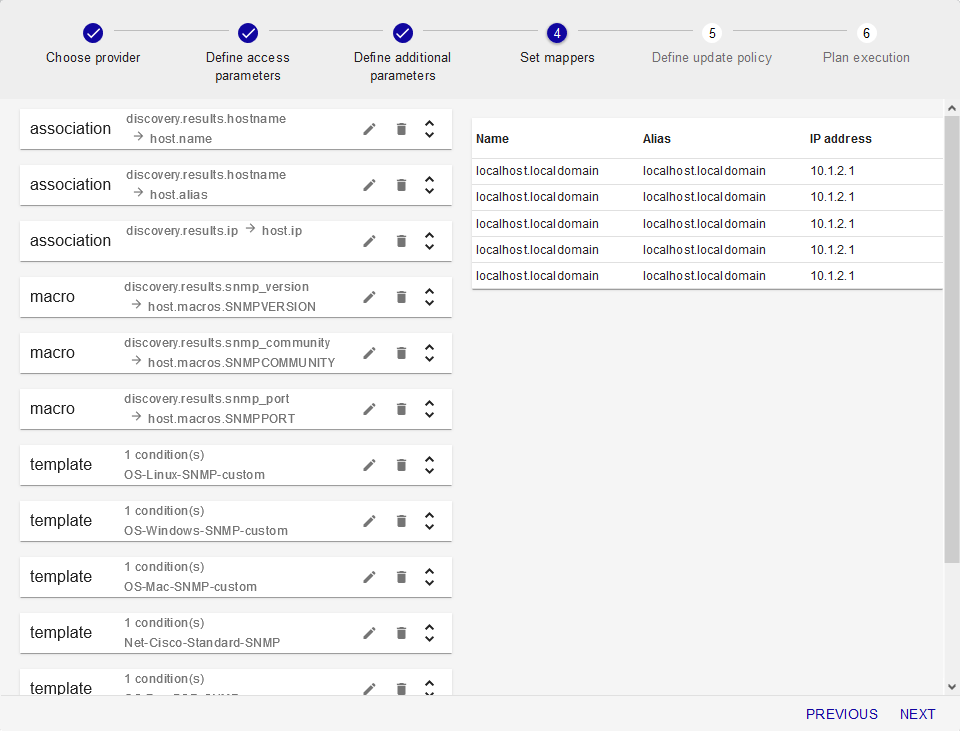
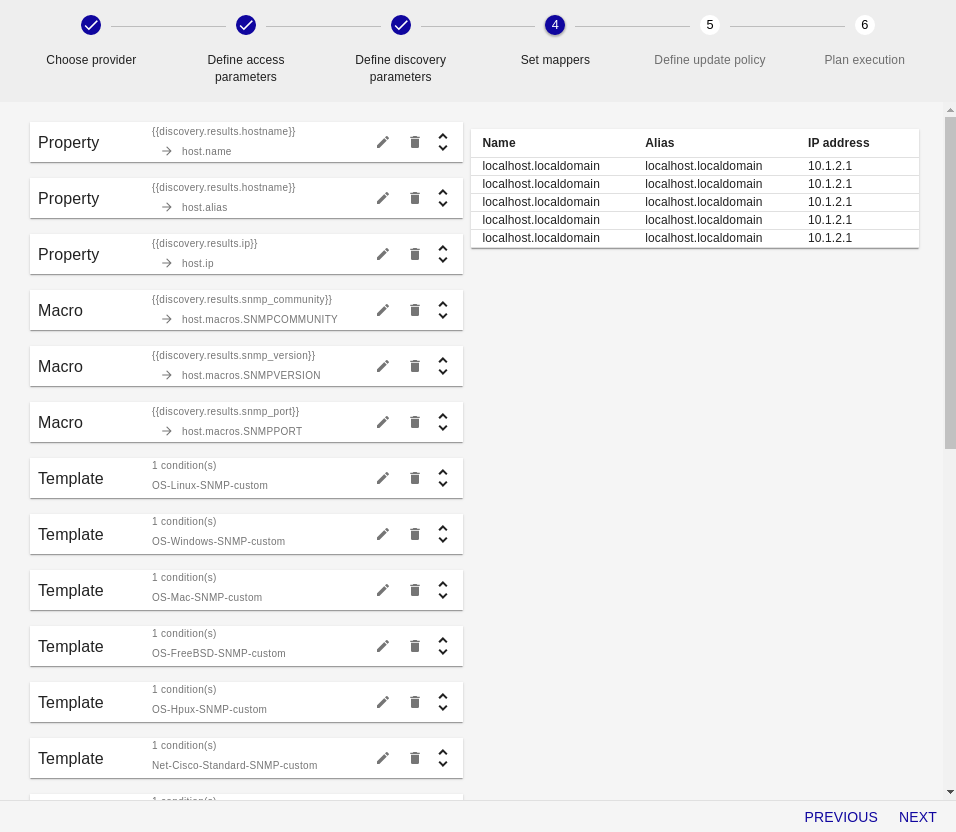
enh(discovery): documentation of new features in host discovery

diff --git a/fr/monitoring/discovery/hosts-discovery.md b/fr/monitoring/discovery/hosts-discovery.md
@@ -162,24 +162,24 @@ Plusieurs actions peuvent être réalisées sur les tâches :
   - Ou même supprimées <img src="../../assets/monitoring/discovery/host-discovery-delete.png" width="24" />
   - Si la tâches est planifiée, elle peut être mise en pause <img src="../../assets/monitoring/discovery/host-discovery-pause.png" width="24" />
   - Et reprise <img src="../../assets/monitoring/discovery/host-discovery-resume.png" width="24" />
+  - Et le plus important, accéder aux résultats de la tâche de découverte <img src="../../assets/monitoring/discovery/host-discovery-goto-results.png" width="24" />
 
 ## Analyser le résultat d'une tâche
 
-Depuis le menu `Configuration > Hôtes > Découverte`, cliquez sur une tâche
-terminée to visualiser le resulat.
+  - Depuis le menu `Configuration > Hôtes > Découverte`, cliquez sur la flèche <img src="../../assets/monitoring/discovery/host-discovery-goto-results.png" width="24" /> 
+d'une tâche terminée pour en visualiser le resulat.
 
 ![image](../../assets/monitoring/discovery/host-discovery-hosts-listing.png)
 
-Les modificateurs liés à cette tâche peuvent être édités et appliqués
+  - Les modificateurs liés à cette tâche peuvent être édités et appliqués
 directement au résultat en cliquant sur le bouton d'édition <img src="../../assets/monitoring/discovery/host-discovery-edit.png" width="24" />
 
-Sélectionnez les hôtes que vous voulez ajouter à la configuration et cliquez
+  - Sélectionnez les hôtes que vous voulez ajouter à la configuration et cliquez
 sur le bouton d'enregistrement <img src="../../assets/monitoring/discovery/host-discovery-hosts-save.png" width="24" />
 
-Une tâche sera lancée pour enregistrer les hôtes et créer les services liés aux
-modèles d'hote.
+Les hôtes sont alors créés ainsi que les services liés à leurs modèles d'hote.
 
-Allez au menu `Configuration > Hôtes` pour voir les hôtes nouvellement créés.
+  - Allez au menu `Configuration > Hôtes` pour voir les hôtes nouvellement créés.
 
 ![image](../../assets/monitoring/discovery/host-discovery-configuration-hosts.png)
 
@@ -189,30 +189,31 @@ survenue pendant la tâche d'enregistrement.
 
 ## Editer une tâche de découverte
 
-Depuis le menu `Configuration > Hôtes > Découverte`, cliquez sur l'icone
-d'édition.
+  - Depuis le menu `Configuration > Hôtes > Découverte`, cliquez dans la ligne 
+de la tâche.
 
-![image](../../assets/monitoring/discovery/host-discovery-edit-job.png)
-
-Depuis le panneau sur la droite, tous les paramètres d'une tâche peuvent être
+  - Depuis le panneau sur la droite, tous les paramètres d'une tâche peuvent être
 modifiés.
 
 L'édition des *modificateurs* aura un effet direct sur les résultats de la
 tâche.
 
-Cliquez sur l'icone de sauvegarde  <img src="../../assets/monitoring/discovery/host-discovery-save.png" width="50" />
+  - Cliquez sur l'icone de sauvegarde  <img src="../../assets/monitoring/discovery/host-discovery-save.png" width="50" />
 
 ## Comment utiliser les *modificateurs*
 
 Un *modificateur* est un objet vous permettant de lier la valeur d'un
 attribut d'un item découvert à la propriété d'un futur hôte.
 
-Il y a six types de *modificateur* :
+Il y a neuf types de *modificateur* :
 
-  - Association: associe la valeur d'un attribut aux propriétés communes
+  - Property: associe la valeur d'un attribut aux propriétés communes
     d'un hôte comme son nom, son alias ou son adresse IP,
   - Macro: associe la valeur d'un attribut à une macro *custom* d'un hôte,
   - Template: ajoute un modèle d'hôte,
+  - Host group: rattachement à un groupe d'hôtes,
+  - Host category: classification des hôtes par catégorie,
+  - Host severity: priorisation des hôtes par sévérité,
   - Monitoring: choisit depuis quel serveur de supervision l'hôte sera
     supervisé,
   - Exclusion: exclure un sous-ensemble des hôtes sur la base de leurs attributs,
@@ -230,7 +231,13 @@ peuvent être : *equal*, *not equal*, *contain* et *not contain*.
 La liste des attributs dépend du fournisseur et sont listés comme *Source* pour
 à la fois les *modificateurs* et les *conditions*.
 
-### AJouter un *modificateur*
+> Depuis la version 21.04, dans les modificateurs *Property*, *Macro*, *Host
+group* et *Host category* il est possible de concaténer un ou plusieurs
+de ces attributs avec une ou plusieurs chaines de caractères personnalisées.
+
+![image](../../assets/monitoring/discovery/host-discovery-mappers-concatenation.gif)
+
+### Ajouter un *modificateur*
 
 Depuis l'étape quatre de l'assistant de création d'une tâche, ou depuis le
 panneau d'édition dans la section *Modificateurs*, cliquez sur **+AJOUTER UN
@@ -243,16 +250,17 @@ Cliquez sur **ENREGISTRER** pour ajouter un *modificateur*.
 
 ### Editer un *modificateur*
 
-Depuis l'étape quatre de l'assistant de création d'une tâche, ou depuis le
-panneau d'édition dans la section *Modificateurs*, cliquez sur l'icone d'édition <img src="../../assets/monitoring/discovery/host-discovery-edit.png" width="25" />
+  - Depuis l'étape quatre de l'assistant de création d'une tâche, ou depuis
+le panneau d'édition dans la section *Modificateurs*, cliquez sur l'icone 
+d'édition <img src="../../assets/monitoring/discovery/host-discovery-edit.png" width="25" />
 
-Modifiez n'importe quel champs ou le type de *modificateur* lui-même.
+  - Modifiez n'importe quel champs ou le type de *modificateur* lui-même.
 
-Cliquez sur **ENREGISTRER** pour enregistrer le *modificateur*.
+  - Cliquez sur **ENREGISTRER** pour enregistrer le *modificateur*.
 
 ### Supprimer un *modificateur*
 
-Depuis l'étape quatre de l'assistant de création d'une tâche, ou depuis le
+  - Depuis l'étape quatre de l'assistant de création d'une tâche, ou depuis le
 panneau d'édition dans la section *Modificateurs*, cliquez sur l'icone de
 suppression  <img src="../../assets/monitoring/discovery/host-discovery-delete.png" width="25" />
 
@@ -262,13 +270,13 @@ Cliquez sur **SUPPRIMER** pour supprimer le *modificateur*.
 
 ## Types de **modificateur**
 
-### Association
+### Property
 
-Le *modificateur* **Association** est utilisé pour définir les propriétés
+Le *modificateur* **Property** est utilisé pour définir les propriétés
 communes d'un hôte comme son nom, son alias ou son adresse IP. Ces trois
 propriétés sont obligatoires.
 
-![image](../../assets/monitoring/discovery/host-discovery-mappers-association.png)
+![image](../../assets/monitoring/discovery/host-discovery-mappers-property.png)
 
 La liste des *Source* permet de choisir entre les données d'identification
 (credentials), les paramètres additionnels (parameters) ou les attributs
@@ -302,6 +310,65 @@ n'est pas un remplacement.
 
 La liste *Modèles d'hôte** permet de choisir parmis tous les modèles d'hôte
 définis dans la configuration.
+
+### Host group
+
+Depuis la version 21.04, il est possible de rattacher des hôtes découverts
+automatiquement à des groupes d'hôtes. Cela peut se faire de deux manières.
+
+#### Sélection d'un groupe d'hôtes existant
+
+La première possibilité consiste à choisir un groupe d'hôtes déjà existant.
+Il suffit d'en sélectionner un dans le menu déroulant.
+
+![image](../../assets/monitoring/discovery/host-discovery-mappers-hostgroup-select.png)
+
+#### Création de groupe d'hôtes à la volée
+
+La seconde consiste à composer un nom de groupe à partir de chaines de 
+caractères et/ou d'informations issues de la découverte (une aide à la 
+saisie propose les informations disponibles).
+
+![image](../../assets/monitoring/discovery/host-discovery-mappers-hostgroup-create.png)
+
+Dans cet exemple, si l'on découvre des serveurs Linux, alors un groupe d'hôtes
+`os-linux` sera créé.
+
+Bien sûr, si un groupe d'hôtes existe déjà avec ce nom, il ne sera pas recréé,
+l'hôte sera simplement rattaché à ce groupe.
+
+### Host category
+
+Depuis la version 21.04, il est également possible de catégoriser les hôtes
+découverts automatiquement. Cela peut se faire de deux manières.
+
+#### Sélection d'une catégorie d'hôtes existante
+
+La première possibilité consiste à choisir une catégorie d'hôtes déjà existante.
+Il suffit d'en sélectionner une dans le menu déroulant.
+
+![image](../../assets/monitoring/discovery/host-discovery-mappers-hostcategory-select.png)
+
+#### Création de catégorie d'hôtes à la volée
+
+La seconde consiste à composer un nom de catégorie à partir de chaines de
+caractères et/ou d'informations issues de la découverte (une aide à la 
+saisie propose les informations disponibles).
+
+![image](../../assets/monitoring/discovery/host-discovery-mappers-hostcategory-create.png)
+
+Bien sûr, si une catégprie d'hôtes existe déjà avec ce nom, elle ne sera pas 
+recréé, l'hôte sera simplement rattaché à cette catégorie.
+
+### Host severity
+
+Toujours depuis la version 21.04, il est également possible de hiérarchiser
+les hôtes découverts automatiquement à l'aide de sévérités d'hôtes. Les 
+sévérités étant constituées d'un nom et d'un niveau (numérique), celles-ci
+ne peuvent pas être créées à la volée. On ne proposera que la sélection
+d'une sévérité existante dans le menu déroulant.
+
+![image](../../assets/monitoring/discovery/host-discovery-mappers-hostseverity-select.png)
 
 ### Monitoring
 

diff --git a/en/monitoring/discovery/hosts-discovery.md b/en/monitoring/discovery/hosts-discovery.md
@@ -157,24 +157,25 @@ Several actions can be done on jobs:
   - Or even deleted <img src="../../assets/monitoring/discovery/host-discovery-delete.png" width="24" />
   - If the job is scheduled, it can be paused <img src="../../assets/monitoring/discovery/host-discovery-pause.png" width="24" />
   - And resumed <img src="../../assets/monitoring/discovery/host-discovery-resume.png" width="24" />
+  - And the most important, access the result of the discovery task <img src="../../assets/monitoring/discovery/host-discovery-goto-results.png" width="24" />
 
 ## Analyse a discovery job result
 
-From the `Configuration > Hosts > Discovery` menu, click on a *Finished* job to
-visualize the result.
+  - From the `Configuration > Hosts > Discovery` menu, click on the arrow <img src="../../assets/monitoring/discovery/host-discovery-goto-results.png" width="24" />
+of a *Finished* job to visualize the result.
 
 ![image](../../assets/monitoring/discovery/host-discovery-hosts-listing.png)
 
-The mappers linked to this job can be edited and applied directly on the result
+  - The mappers linked to this job can be edited and applied directly on the result
 by clicking the edit action <img src="../../assets/monitoring/discovery/host-discovery-edit.png" width="24" />
 
-Select the hosts you want to add to the configuration and click on the save
+  - Select the hosts you want to add to the configuration and click on the save
 action <img src="../../assets/monitoring/discovery/host-discovery-hosts-save.png" width="24" />
 
-A task will be launched in background to save the hosts and create the services
-linked to host templates.
+The hosts will then be created as well as the services linked to their host 
+templates.
 
-Go to the `Configuration > Hosts` menu to see the newly created hosts.
+  - Go to the `Configuration > Hosts` menu to see the newly created hosts.
 
 ![image](../../assets/monitoring/discovery/host-discovery-configuration-hosts.png)
 
@@ -183,27 +184,30 @@ job listing and see if an error occured during the saving task.
 
 ## Edit a discovery job
 
-From the `Configuration > Hosts > Discovery` menu, click on the *Edit* action.
+  - From the `Configuration > Hosts > Discovery` menu, click on the *Edit* action.
 
 ![image](../../assets/monitoring/discovery/host-discovery-edit-job.png)
 
-On the panel on the right, every parameters of the job can be edited.
+  - On the panel on the right, every parameters of the job can be edited.
 
 Edition of the *mapper* will have a direct effect on the job result.
 
-Click on the *Save* icon <img src="../../assets/monitoring/discovery/host-discovery-save.png" width="50" />
+  - Click on the *Save* icon <img src="../../assets/monitoring/discovery/host-discovery-save.png" width="50" />
 
 ## How to use the *mappers*
 
 A *mapper* is an object letting you map an attribute's value of a discovered
 item to a property of a future host.
 
-There is six types of *mappers*:
+There are nine types of *mappers*:
 
-  - Association: map an attribute's value to a common host property like name,
+  - Property: map an attribute's value to a common host property like name,
     alias or IP,
   - Macro: map an attribute's value to a host custom macro,
   - Template: add a host template,
+  - Host group: link the host to a group,
+  - Host category: categorize the host,
+  - Host severity: prioritize the host according to a severity,
   - Monitoring: choose from which monitoring server will be monitored the host,
   - Exclusion: exclude a subset of hosts based on their attributes (see the
     [example](#dynamically-update-your-configuration) below),
@@ -221,6 +225,11 @@ contain.
 The list of attributes depends on the provider and are listed as *Source* for
 both *mappers* and conditions.
 
+> From version 21.04, mappers *Property*, *Macro*, *Host group* and *Host category*
+ support concatenating either discovery attributes or custom strings.
+
+![image](../../assets/monitoring/discovery/host-discovery-mappers-concatenation.gif)
+
 ### Add a *mapper*
 
 From the job wizard at step four, or from the edition panel in the *Mappers*
@@ -233,16 +242,16 @@ Click on **SAVE** to add the *mapper*.
 
 ### Edit a *mapper*
 
-From the job wizard at step four, or from the edition panel in the *Mappers*
+  - From the job wizard at step four, or from the edition panel in the *Mappers*
 section, click on the *Edit* icon <img src="../../assets/monitoring/discovery/host-discovery-edit.png" width="24" />
 
-Change any fields wanted or even the type of *mapper*.
+  - Change any fields wanted or even the type of *mapper*.
 
-Click on **SAVE** to save the *mapper*.
+  - Click on **SAVE** to save the *mapper*.
 
 ### Delete a *mapper*
 
-From the job wizard at step four, or from the edition panel in the *Mappers*
+  - From the job wizard at step four, or from the edition panel in the *Mappers*
 section, click on the *Delete* icon <img src="../../assets/monitoring/discovery/host-discovery-delete.png" width="24" />
 
 A popin window will ask you to confirm the action.
@@ -251,12 +260,12 @@ Click on **DELETE** to delete the *mapper*.
 
 ## *Mappers* types
 
-### Association
+### Property
 
-The **Association** *mapper* is used to set common properties of a host like
+The **Property** *mapper* is used to set common properties of a host like
 its name, alias or IP address. Those three properties are mandatory.
 
-![image](../../assets/monitoring/discovery/host-discovery-mappers-association.png)
+![image](../../assets/monitoring/discovery/host-discovery-mappers-property.png)
 
 The *Source* listing allows to choose between credentials, parameters or
 discovery result attributes.
@@ -288,6 +297,64 @@ replace method.
 
 The *Host template* listing allows to choose among all host templates defined
 in the configuration.
+
+### Host group
+
+From version 21.04, the discovered hosts can be linked to host groups. There
+are two ways of doing it.
+
+#### Select an existing host group
+
+The first way is to link the hosts to an existing host group. Just pick a host
+group in the scrolling menu.
+
+![image](../../assets/monitoring/discovery/host-discovery-mappers-hostgroup-select.png)
+
+#### Create host groups on-the-fly
+
+The second way is to create the host group on-the-fly. Both custom strings and
+discovery attributes can be used and concatenated to compose the host group's
+name.
+
+![image](../../assets/monitoring/discovery/host-discovery-mappers-hostgroup-create.png)
+
+In this example, when discovering Linux servers, the `os-linux` host group will
+be created.
+
+Of course, if a host group already exists with the same name, it won't be 
+created again, the host will simply be linked to it.
+
+### Host category
+
+From version 21.04, the discovered hosts can also be categorized using host 
+categories. Again, there are two ways of doing it.
+
+#### Select an existing host category
+
+The first way is to link the hosts to an existing host category. Just pick a host
+category in the scrolling menu.
+
+![image](../../assets/monitoring/discovery/host-discovery-mappers-hostcategory-select.png)
+
+#### Create host categories on-the-fly
+
+The second way is to create the host category on-the-fly. Both custom strings
+and discovery attributes can be used and concatenated to compose the host 
+category's name.
+
+![image](../../assets/monitoring/discovery/host-discovery-mappers-hostcategory-create.png)
+
+Of course, if a host category already exists with the same name, it won't be 
+created again, the host will simply be linked to it.
+
+### Host severity
+
+Still from version 21.04, discovered hosts can also be prioritized using host
+severities. Since severities are not just a simple label but also have a 
+numeric level, they can't be created on-the-fly, and can only be picked in the
+scrolling menu.
+
+![image](../../assets/monitoring/discovery/host-discovery-mappers-hostseverity-select.png)
 
 ### Monitoring
 
